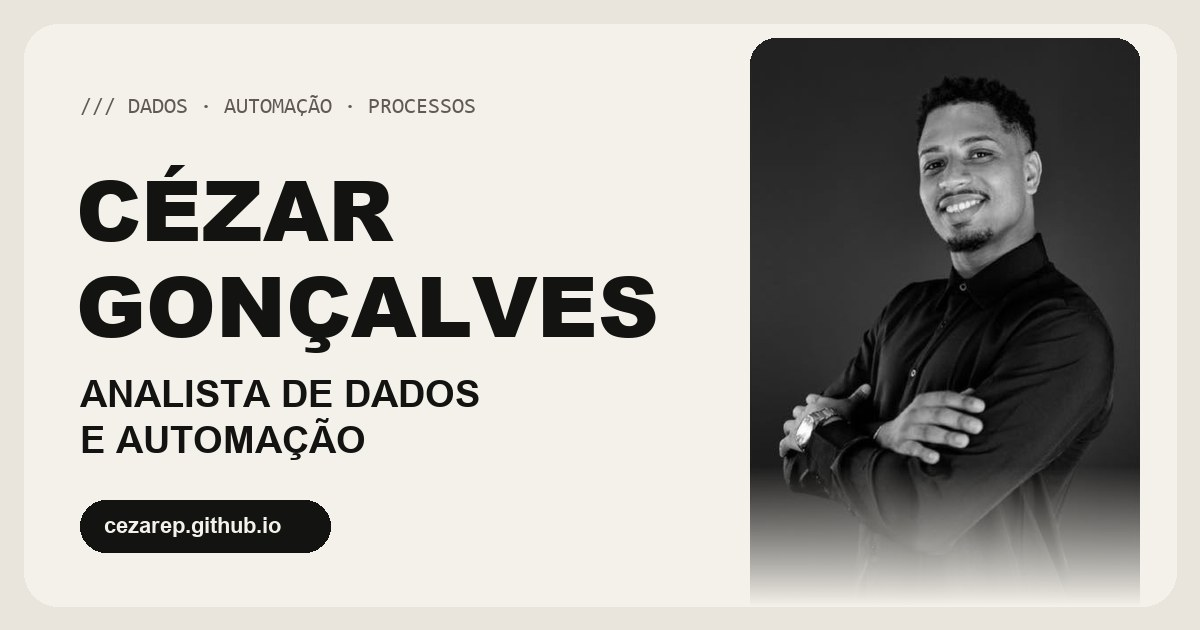
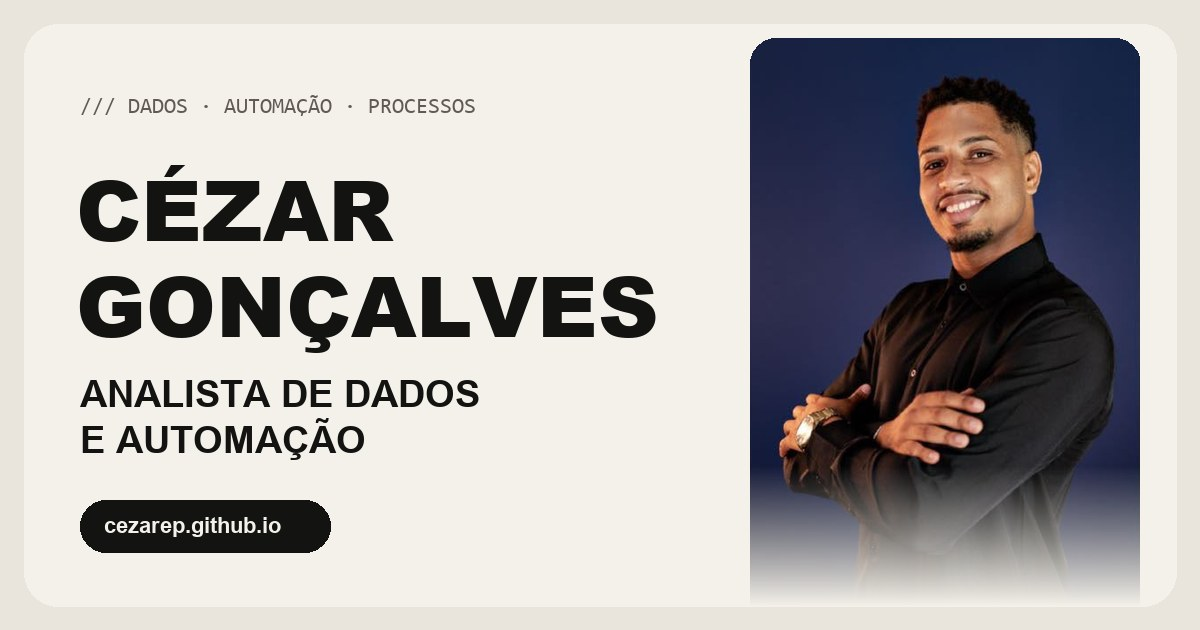
Volta a foto para colorida

Changed region(s): [[0.6167, 0.0603, 0.9558, 0.7841]]

diff --git a/assets/estilo.css b/assets/estilo.css
@@ -76,7 +76,7 @@ p, ul, ol { margin: 0; }
 .proposta { max-width: 30rem; color: var(--muted); font-size: 1.04rem; }
 .acoes { display: flex; flex-wrap: wrap; gap: .7rem; align-items: center; }
 .hero-foto { position: relative; margin: 0; align-self: end; justify-self: end; width: min(100%, 25rem); }
-.hero-foto img { width: 100%; filter: grayscale(1) contrast(1.06); border-radius: 22px 22px 0 0;
+.hero-foto img { width: 100%; border-radius: 22px 22px 0 0;
   -webkit-mask-image: linear-gradient(to bottom, #000 70%, transparent 100%); mask-image: linear-gradient(to bottom, #000 70%, transparent 100%); }
 .selo { position: absolute; left: -3.2rem; bottom: 22%; width: 7.4rem; height: 7.4rem; border-radius: 50%; background: var(--pill-bg); color: var(--pill-fg); display: grid; place-items: center; text-align: center; text-decoration: none; font-weight: 800; font-size: .74rem; letter-spacing: .06em; text-transform: uppercase; line-height: 1.25; transition: transform .2s; box-shadow: 0 0 0 6px var(--card); }
 .selo:hover { transform: rotate(-8deg) scale(1.04); background: var(--accent); color: #F4F1EA; }
